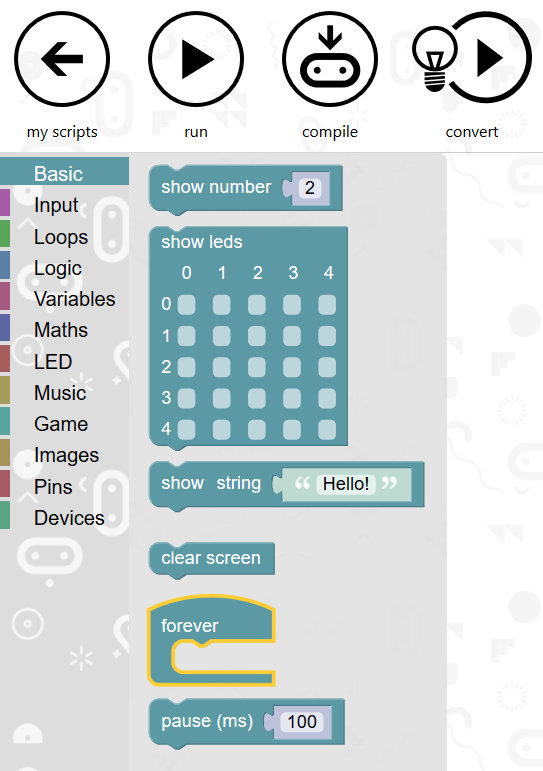
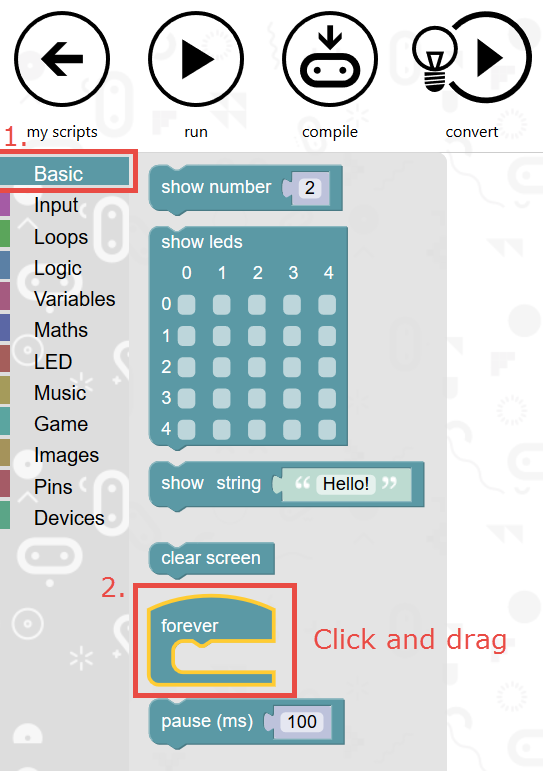
Updated Micro:bit Space Invaders workshop
Updated instructions to show how to get to the old editor (to avoid a total workshop rewrite). 
Updated some images to improve clarity.

Changed region(s): [[0.1768, 0.7471, 0.9429, 0.9027], [0.0, 0.1556, 0.2652, 0.249]]

diff --git a/Microbit Space Invaders (Block Editor)/Microbit Space Invaders.tex b/Microbit Space Invaders (Block Editor)/Microbit Space Invaders.tex
@@ -109,16 +109,13 @@ We'll also write some information between parts and include plenty of screenshot
 
 \actions {
 	\item Plug your Micro:bit into the computer using the USB cable
-	\item Look at the Micro:bit files in the file explorer
-	\item Open the \enquote{Microbit.htm} file (e.g. by double clicking) which should take you to the Micro:bit website
-	\item Click the \enquote{Create Code} button
-	\item In the \enquote{Microsoft Block Editor} box, click the \enquote{New Project} link
-	\item At the top of the page, rename your project to \enquote{Space Invaders}
+	\item Open a web browser and go to \href{http://microbit.org/code/}{http://microbit.org/code/}
+    \item Under the words \enquote{Microsoft Block Editor}, click the purple \enquote{Start with this editor} button
+	\item At the top of the editor page, rename your project to \enquote{Space Invaders}
 }
 
 \screenshot{Microbit-Plugged-In.jpg}{Micro:bit plugged into laptop using the supplied USB cable}
-\screenshot{Microbit-Files.png}{Files on the Micro:bit - double click the .htm file to open the website}
-\screenshot{Microbit-Website.png}{Create Code on Micro:bit website}
+\screenshot{Microbit-Website.png}{Start with this editor on Micro:bit website}
 \screenshot{Rename-project.png}{Rename your new project to Space Invaders}
 
 \goals {
@@ -191,11 +188,11 @@ We're going to use the tilt sensor to move our defender around. When the board i
 }
 
 \notes {
-	An \enquote{if} block is a decision block (often called a Conditional block). You test something, and if that test passes, then the code inside the block executes. Otherwise, the code inside the block doesn't execute and the programs goes to the block following the if block.
+	An \enquote{if} block is a decision block (often called a Conditional block). You test something, and if that test passes, then the code inside the block runs. Otherwise, the code inside the block doesn't run and the programs goes to the block after the if block.
 }
 
 \notes {
-	The \enquote{test} the if-block uses is called the \enquote{condition}. It is a logic equation. For example, \enquote{is five greater than four} is a condition (to which the answer is always \enquote{yes} - usually called \enquote{true}). If the condition is \enquote{true} the code inside the if block executes, otherwise the condition is \enquote{false} so the code inside doesn't execute.
+	The \enquote{test} the if-block uses is called the \enquote{condition}. It is a logic equation. For example, \enquote{is five greater than four} is a condition (to which the answer is always \enquote{yes} - usually called \enquote{true}). If the condition is \enquote{true} the code inside the if block happens, otherwise the condition is \enquote{false} so the code inside doesn't happen.
 }
 
 \screenshot{If-block.png}{An if-block: Condition determines if the code inside runs.}
